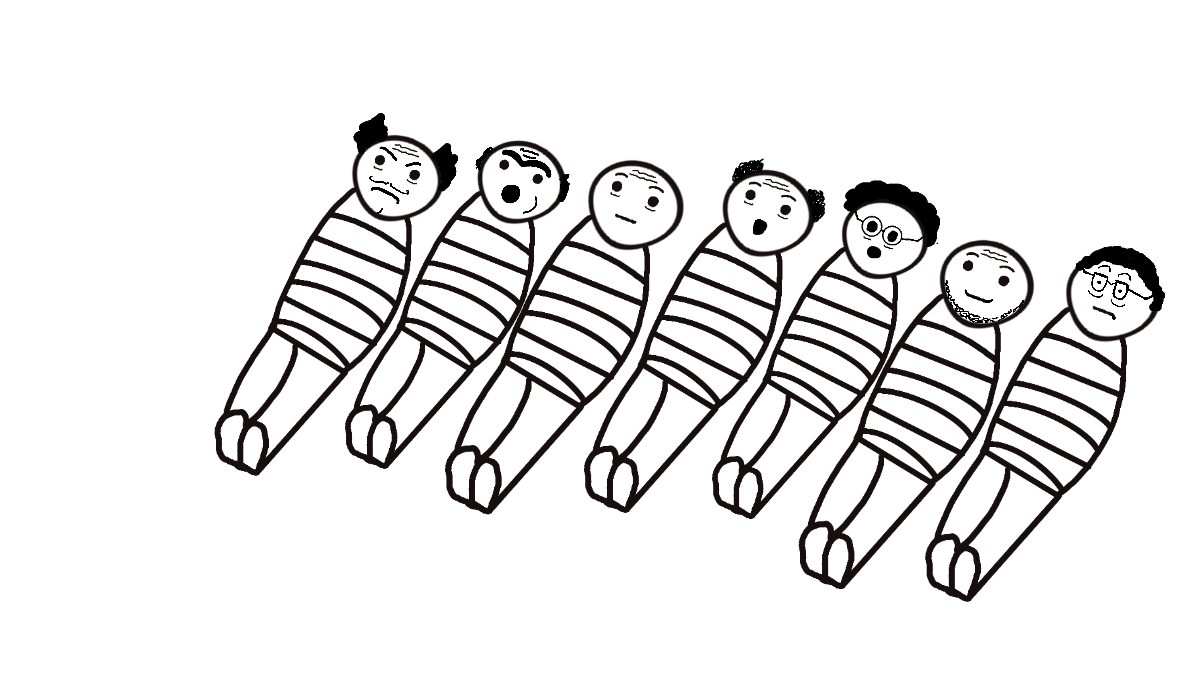
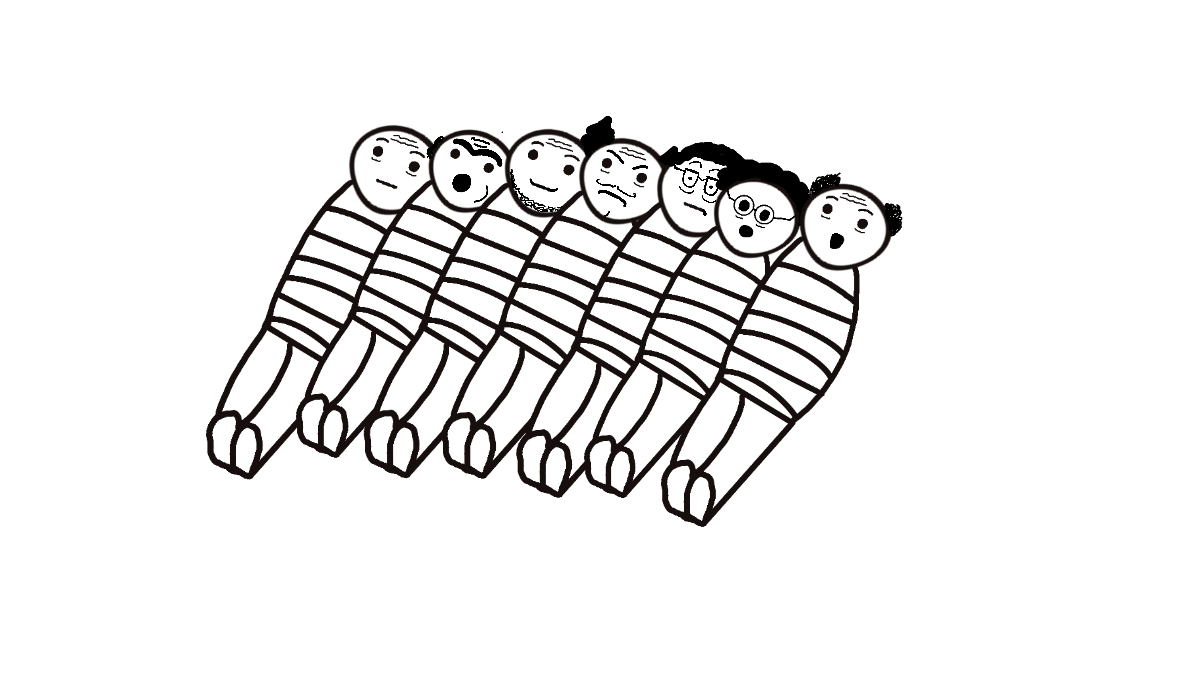
Annad Big Update

Changed region(s): [[0.1542, 0.15, 0.9867, 0.87]]

diff --git a/Leikur/index.js b/Leikur/index.js
@@ -1,3 +1,8 @@
+// Setja inn JB og baeta vid haus hreyfing
+// Uppfaera og setja inn myndir
+// baeta vid fleiri leikir
+
+
 var script = document.createElement('script');
 script.src = "https://code.jquery.com/jquery-3.7.1.js";
 document.getElementsByTagName("head")[0].appendChild(script);
@@ -14,12 +19,33 @@ let boolTakaíStöng = false;
 
 let ground = new Image();
 ground.src = 'Img/Gummibackground.png'
+let lestMynd = new Image();
+lestMynd.src = 'Img/annad/lest.png'
+let jbHaus = new Image();
+jbHaus.src = 'Img/JB/Jóhann1.png'
+let jbBody = new Image();
+jbBody.src = 'Img/JB/lever.png'
+let jbTakaStong = new Image();
+jbTakaStong.src = 'Img/JB/pull_lever.png'
 let kettir = new Image();
-kettir.src = 'Img/folk/7_gamalt_folk.png'
+kettir.src = 'Img/annad/kettir.png'
 let leikskoliMynd = new Image();
-leikskoliMynd.src = 'Img/Leikskóli.png'
+leikskoliMynd.src = 'Img/annad/leikskoli.png'
 let spitaliMynd = new Image();
-spitaliMynd.src = 'Img/Spítali.png'
+spitaliMynd.src = 'Img/annad/barnaspitali.png'
+let fimmManneskjurMynd = new Image();
+fimmManneskjurMynd.src = 'Img/folk/5_kallar.png'
+let einKallVenjuMynd = new Image();
+einKallVenjuMynd.src = 'Img/folk/einn_kall_venjulegur.png'
+let splatMynd = new Image();
+splatMynd.src = 'Img/folk/splat.png'
+let jbBornMynd = new Image();
+jbBornMynd.src = 'Img/folk/JB_born.png'
+let bekkurYZMynd = new Image();
+bekkurYZMynd.src = 'Img/annad/ZY_bekkur.png'
+let bekkurXMynd = new Image();
+bekkurXMynd.src = 'Img/annad/X_bekkur.png'
+
 
 
 document.getElementById("pullLever").addEventListener('click',() => {boolTakaíStöng=true});
@@ -60,14 +86,15 @@ const JB = new element({
     y: 500,
     width: 300,
     height: 175,
-    image: kettir
+    image: jbBody
 })
 
 const lest = new element({
     x: 100,
-    y: 200,
-    width: 120,
-    height: 55 
+    y: 100,
+    width: 300,
+    height: 175,
+    image: lestMynd 
 })
 
 // const JB = {
@@ -90,50 +117,61 @@ const lest = new element({
 // preLoadImages();
 
 const einManneskja = new element({
-    x: 600,
-    y: 100,
-    width: 25,
-    height: 45,
-    numPeople: 1
+    x: 850,
+    y: 80,
+    width: 300,
+    height: 175,
+    numPeople: 1,
+    image: einKallVenjuMynd
 })
 const fimmManneskjur = new element({
-    x: 600,
-    y: 400,
-    width: 60,
-    height: 45,
-    numPeople: 5
+    x: 800,
+    y: 320,
+    width: 300,
+    height: 175,
+    numPeople: 5,
+    image: fimmManneskjurMynd
 })
 const bekkurZY = new element({
-    x: 600,
-    y: 100,
-    width: 25,
-    height: 45,
-    numPeople: 12
+    x: 800,
+    y: 400,
+    width: 300,
+    height: 175,
+    numPeople: 16,
+    image: bekkurYZMynd
 })
 const bekkurX = new element({
-    x: 600,
-    y: 400,
-    width: 30,
-    height: 45,
-    numPeople: 9
+    x: 850,
+    y: 100,
+    width: 300,
+    height: 175,
+    numPeople: 40,
+    image: bekkurXMynd
 })
 const leikskoli = new element({
-    x: 600,
-    y: 100,
-    width: 600,
-    height: 350,
+    x: 900,
+    y: 80,
+    width: 300,
+    height: 175,
     numPeople: 12,
     image: leikskoliMynd
 })
 const spitali = new element({
-    x: 600,
-    y: 400,
+    x: 850,
+    y: 80,
     width: 300,
     height: 175,
     numPeople: 12,
     image: spitaliMynd
 })
-
+const jbBorn = new element({
+    x: 800,
+    y: 320,
+    width: 300,
+    height: 175,
+    numPeople: 2,
+    image: jbBornMynd
+})
 
 const Level1 = new LevelBoard({
     boardLevel: 1,
@@ -150,11 +188,17 @@ const Level2 = new LevelBoard({
 const Level3 = new LevelBoard({
     boardLevel: 3,
     Val1: leikskoli,
-    Val2: spitali,
+    Val2: jbBorn,
     boardUpp:"Ó nei, lestin stefnir í átt að börnunum þínum Jóhann. Þú getur bjargað þeim með að taka í stöngina, en þá keyrir lestin yfir 5 ára deild leikskólans Ævintýraborg við Nauthólsveg. Hvað gerir þú?"
 })
+const Level4 = new LevelBoard({
+    boardLevel: 4,
+    Val1: leikskoli,
+    Val2: jbBorn,
+    boardUpp:'blabla'
+})
 
-var levelDeck = [Level1,Level2, Level3];
+var levelDeck = [Level1,Level2,Level3,Level4];
 
 function hreyfaLest(){
     if (boolGeraEkkert){
@@ -183,26 +227,53 @@ function drawLevel(Level){
     ctx.font = "24px Monospace";
     ctx.fillText(`Level : ${Level}`, c.width/2-40, 50);
 }
+function keyraYfir(Level){
+    tempVal1 = Level.boardVal1;
+    tempVal2 = Level.boardVal2;
+    if(boolTakaíStöng){
+        JB.image = jbTakaStong;
+        if ((lest.x + lest.width) >= (tempVal1.x + tempVal1.width/2 )){
+            tempVal1.image = splatMynd;
+        }
+    }
+    else{
+        if ((lest.x + lest.width) >= (tempVal2.x + tempVal2.width/2 )){
+            tempVal2.image = splatMynd;
+        }
+    }
+}
+function animateJBhaus(){
+
+}
+
 
 
 function startLevel(LevelToPlay){
     ctx.clearRect(0,0,c.width,c.height);
-    
+    keyraYfir(LevelToPlay);
+
     ctx.drawImage(ground,0,0);
-    lest.draw(ctx);
     JB.draw(ctx);
     drawLevel(LevelToPlay.boardLevel);
     LevelToPlay.boardVal1.draw(ctx);
     LevelToPlay.boardVal2.draw(ctx);
+    lest.draw(ctx);
     uppText.innerHTML = LevelToPlay.boardUpp;
     
 }
 function switchToNextLevel(){
-    boolGeraEkkert = false;
-    boolTakaíStöng = false;
-    levelCounter++;
-    lest.x = 100;
-    lest.y = 200;
+    // skodar hvort vid segjum komnir ad endanum
+    console.log(levelCounter)
+    if (levelDeck.length >= levelCounter){
+        boolGeraEkkert = false;
+        boolTakaíStöng = false;
+        levelCounter++;
+        lest.x = 100;
+        lest.y = 100;
+        JB.image = jbBody
+    }
+    // fela takkar?
+    
 
 }
 

diff --git a/Leikur/index.css b/Leikur/index.css
@@ -1,9 +1,9 @@
 body{
-    background-color: beige;
+    /* background-color: beige; */
     font-family:'Segoe UI', Tahoma, Geneva, Verdana, sans-serif;
 }
 canvas{
-    border: 1px solid black;
+    /* border: 1px solid black; */
     border-radius: 7px;
     display: block;
     margin: auto;
